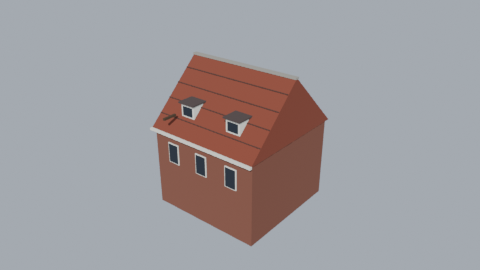
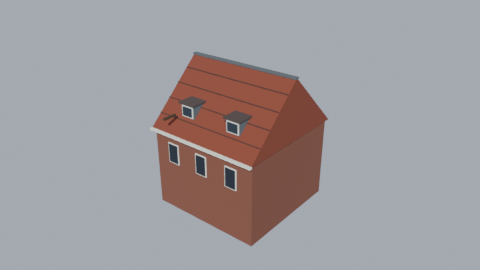
Over de daken: loden nokken en dakkapellen, verweerde schoorsteenkappen
De witte nokstenen, dakkapellen en dekplaten waren te schoon. Nokken en dakkapellen zijn nu met
lood bekleed (de route vangt het maanlicht en blijft leesbaar), dakkapellen hebben een wit kozijn
met glas, schoorstenen een verweerde zandstenen kap.

Claude-Session: https://claude.ai/code/session_01AvmxMXXNJcvRPyArPtPRyk

diff --git a/assets/blender/_dakhuis.py b/assets/blender/_dakhuis.py
@@ -20,8 +20,10 @@ def windows(b, h):
 
 def dormer(b, x, h, rise, k, size=1.0):
     dy, dz = -D / 2 * (1 - k), h + rise * k
-    b.box((1.5 * size, 1.5, 1.25 * size), (x, dy + 0.3, dz + 0.3 * size), "WoodWhite")
-    b.box((1.1 * size, 0.06, 0.85 * size), (x, dy - 0.47, dz + 0.3 * size), "WindowDark")
+    # lead-clad cheeks, a white painted front frame around the window
+    b.box((1.5 * size, 1.5, 1.25 * size), (x, dy + 0.3, dz + 0.3 * size), "Lead")
+    b.box((1.3 * size, 0.05, 1.05 * size), (x, dy - 0.47, dz + 0.3 * size), "WoodWhite")
+    b.box((1.1 * size, 0.06, 0.85 * size), (x, dy - 0.5, dz + 0.3 * size), "Glass")
     b.box((1.8 * size, 1.8, 0.1), (x, dy + 0.25, dz + 0.3 + 0.67 * size), "Roof")
 
 
@@ -30,7 +32,7 @@ def saddle(name, h, rise, tile, dormers, hoist=False):
     b = Builder(name)
     b.box((W, D, h), (0, 0, h / 2), "Brick")
     b.loft([[(x, -D / 2 - 0.3, h), (x, D / 2 + 0.3, h), (x, 0, h + rise)] for x in (-W / 2 - 0.12, W / 2 + 0.12)], tile)
-    b.box((W + 0.3, 0.34, 0.14), (0, 0, h + rise - 0.02), "Stone")
+    b.box((W + 0.3, 0.34, 0.14), (0, 0, h + rise - 0.02), "Lead")  # lead-covered ridge: the route catches the moon
     b.box((W + 0.3, 0.2, 0.16), (0, -D / 2 - 0.34, h - 0.02), "WoodWhite")
     slope = math.atan2(rise, D / 2 + 0.3)
     for k in (0.2, 0.4, 0.6, 0.8):

diff --git a/assets/blender/build_schoorsteen.py b/assets/blender/build_schoorsteen.py
@@ -6,7 +6,7 @@ from _lib import Builder, export, preview, reset
 reset()
 b = Builder("Schoorsteen")
 b.box((1.2, 1.0, 3.0), (0, 0, 0.7), "Brick")
-b.box((1.4, 1.2, 0.16), (0, 0, 2.26), "Stone")
+b.box((1.4, 1.2, 0.16), (0, 0, 2.26), "Sandstone")  # weathered, sooty cap stone
 for x in (-0.3, 0.3):
     b.cyl(0.17, 0.14, 0.5, (x, 0, 2.58), "BrickDark", segs=12)
 b.build(bevel=0.03)
